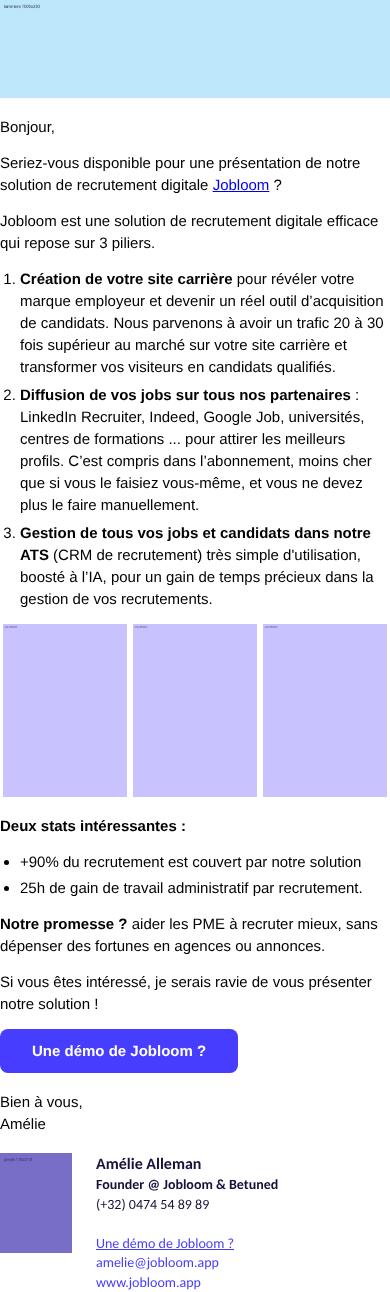
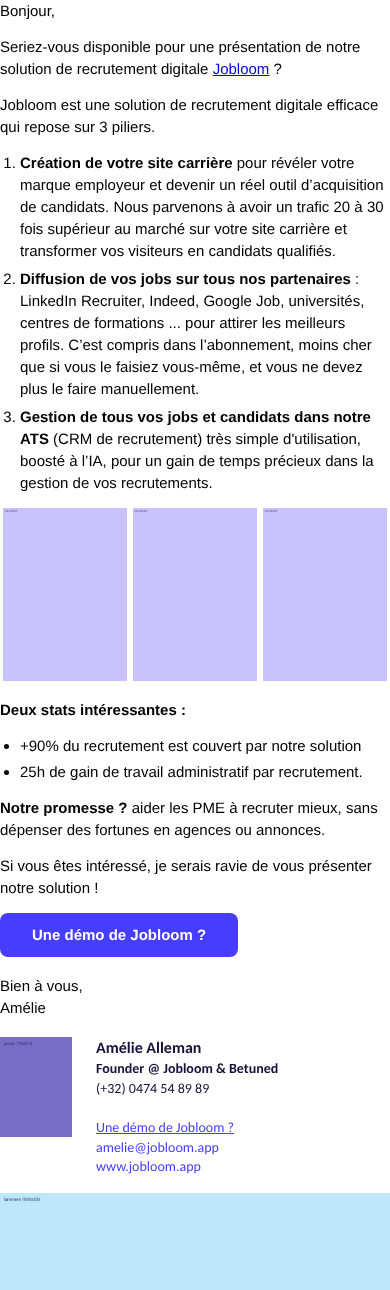
Email Amélie : bannière remise en bas du mail
Claude-Session: https://claude.ai/code/session_01XTeiUwKp5X2MxE8FSKHjU9

diff --git a/email-livrable/email_1st_Amelie_final.html b/email-livrable/email_1st_Amelie_final.html
@@ -31,10 +31,6 @@ li{margin-left:0 !important;}</style>
 <!--[if mso]><table role="presentation" width="800" cellpadding="0" cellspacing="0" border="0" align="center"><tr><td><![endif]-->
 <div class="txt" style="width:100%;max-width:1000px;margin:0 auto;text-align:left;font-family:Arial,Helvetica,sans-serif;font-size:14px;line-height:20px;mso-line-height-rule:exactly;color:#000000">
 
-<table role="presentation" cellpadding="0" cellspacing="0" border="0" width="100%" style="border-collapse:collapse;width:100%;margin:0 0 18px 0"><tr><td align="left" style="padding:0"><a href="https://www.jobloom.app/agenda" style="text-decoration:none">
-<!--[if mso]><img src="https://jobloom-landing-pages-massimoharnisfeger-hues-projects.vercel.app/signature/banniere-jobloom.jpg" width="800" height="200" alt="Recruter, c'est cher, long et compliqué. Mais tellement moins avec Jobloom" style="display:block;width:800px;height:200px;border:0"><![endif]-->
-<!--[if !mso]><!--><img src="https://jobloom-landing-pages-massimoharnisfeger-hues-projects.vercel.app/signature/banniere-jobloom.jpg" width="1000" height="250" alt="Recruter, c'est cher, long et compliqué. Mais tellement moins avec Jobloom" style="display:block;width:100%;height:auto;border:0"><!--<![endif]-->
-</a></td></tr></table>
 <p style="margin:0 0 14px 0">Bonjour,</p>
 <p style="margin:0 0 14px 0">Seriez-vous disponible pour une présentation de notre solution de recrutement digitale <a href="https://www.jobloom.be/">Jobloom</a>&nbsp;?</p>
 <p style="margin:0 0 14px 0">Jobloom est une solution de recrutement digitale efficace qui repose sur 3 piliers.</p>
@@ -76,6 +72,10 @@ li{margin-left:0 !important;}</style>
 </td>
 </tr>
 </table>
+<table role="presentation" cellpadding="0" cellspacing="0" border="0" width="100%" style="border-collapse:collapse;width:100%;margin:16px 0 0 0"><tr><td align="left" style="padding:0"><a href="https://www.jobloom.app/agenda" style="text-decoration:none">
+<!--[if mso]><img src="https://jobloom-landing-pages-massimoharnisfeger-hues-projects.vercel.app/signature/banniere-jobloom.jpg" width="800" height="200" alt="Recruter, c'est cher, long et compliqué. Mais tellement moins avec Jobloom" style="display:block;width:800px;height:200px;border:0"><![endif]-->
+<!--[if !mso]><!--><img src="https://jobloom-landing-pages-massimoharnisfeger-hues-projects.vercel.app/signature/banniere-jobloom.jpg" width="1000" height="250" alt="Recruter, c'est cher, long et compliqué. Mais tellement moins avec Jobloom" style="display:block;width:100%;height:auto;border:0"><!--<![endif]-->
+</a></td></tr></table>
 </div>
 <!--[if mso]></td></tr></table><![endif]-->
 </td></tr></table>
